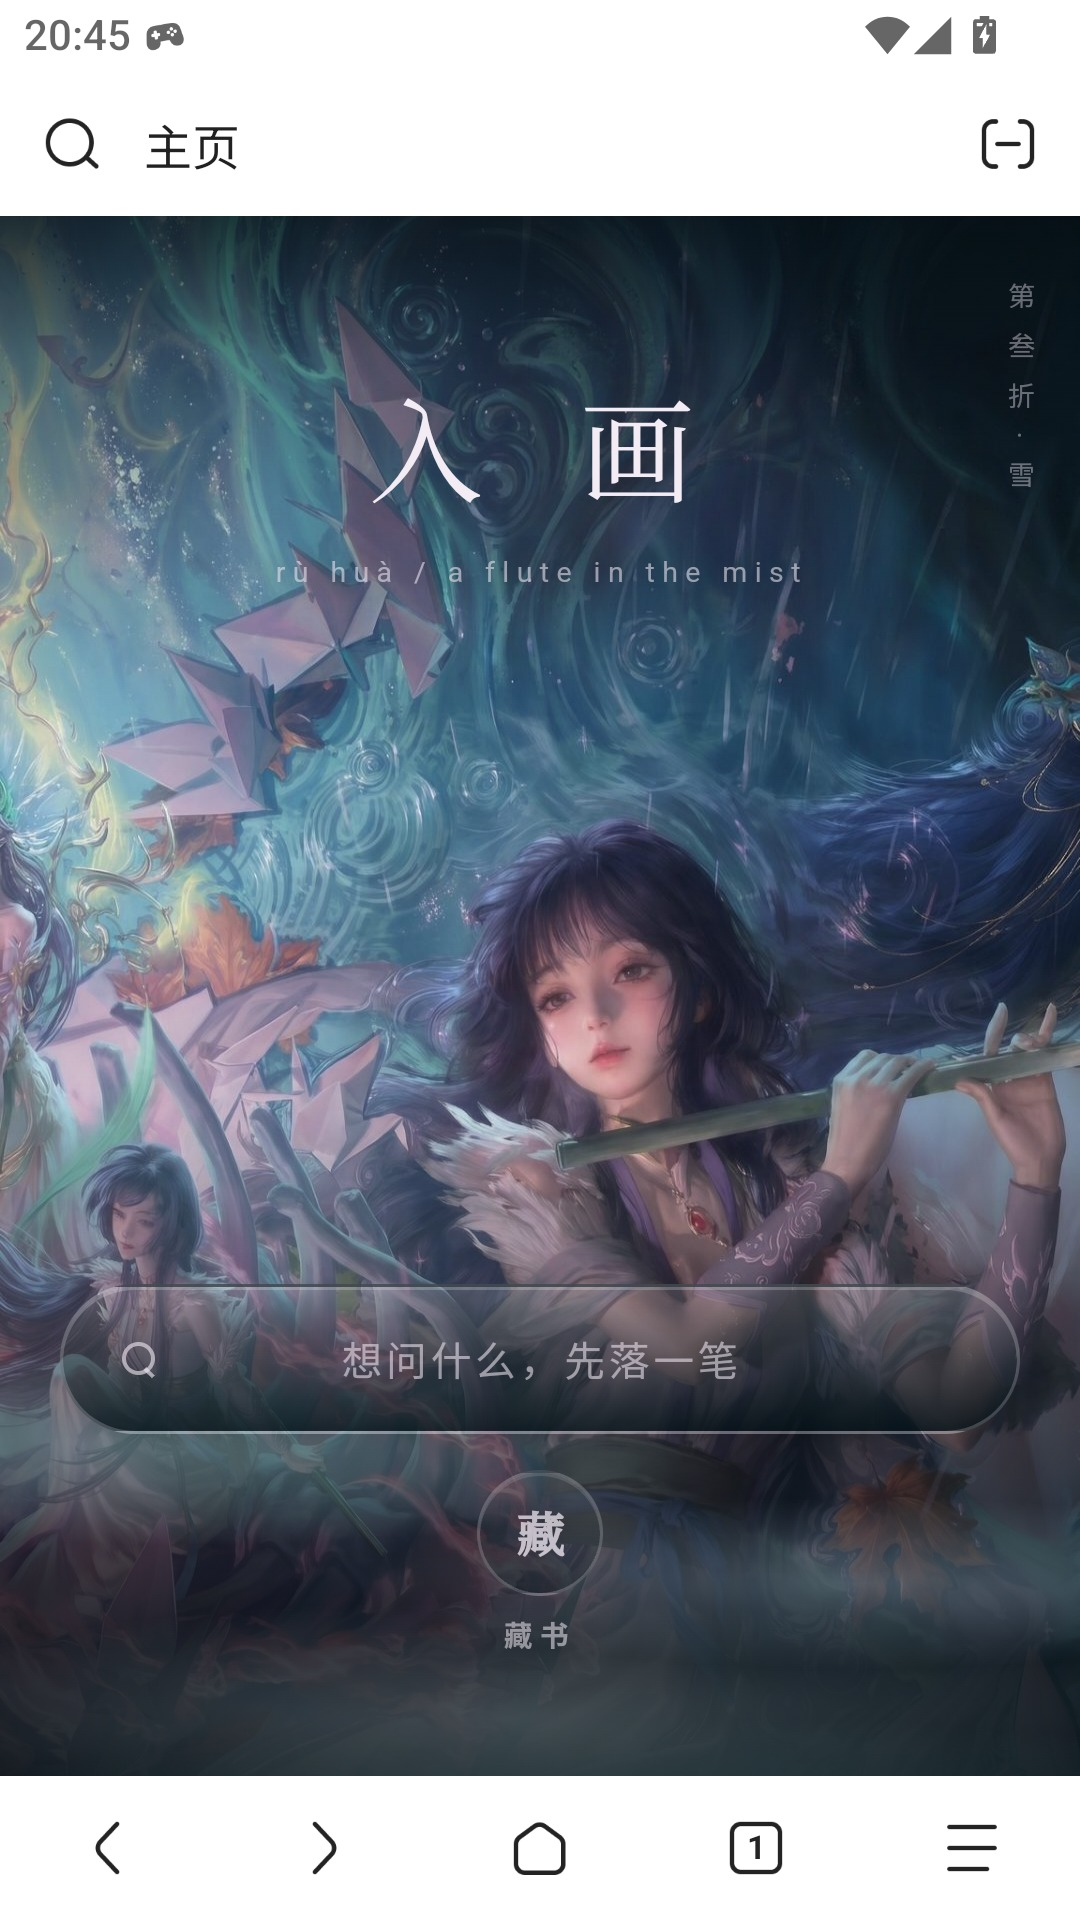
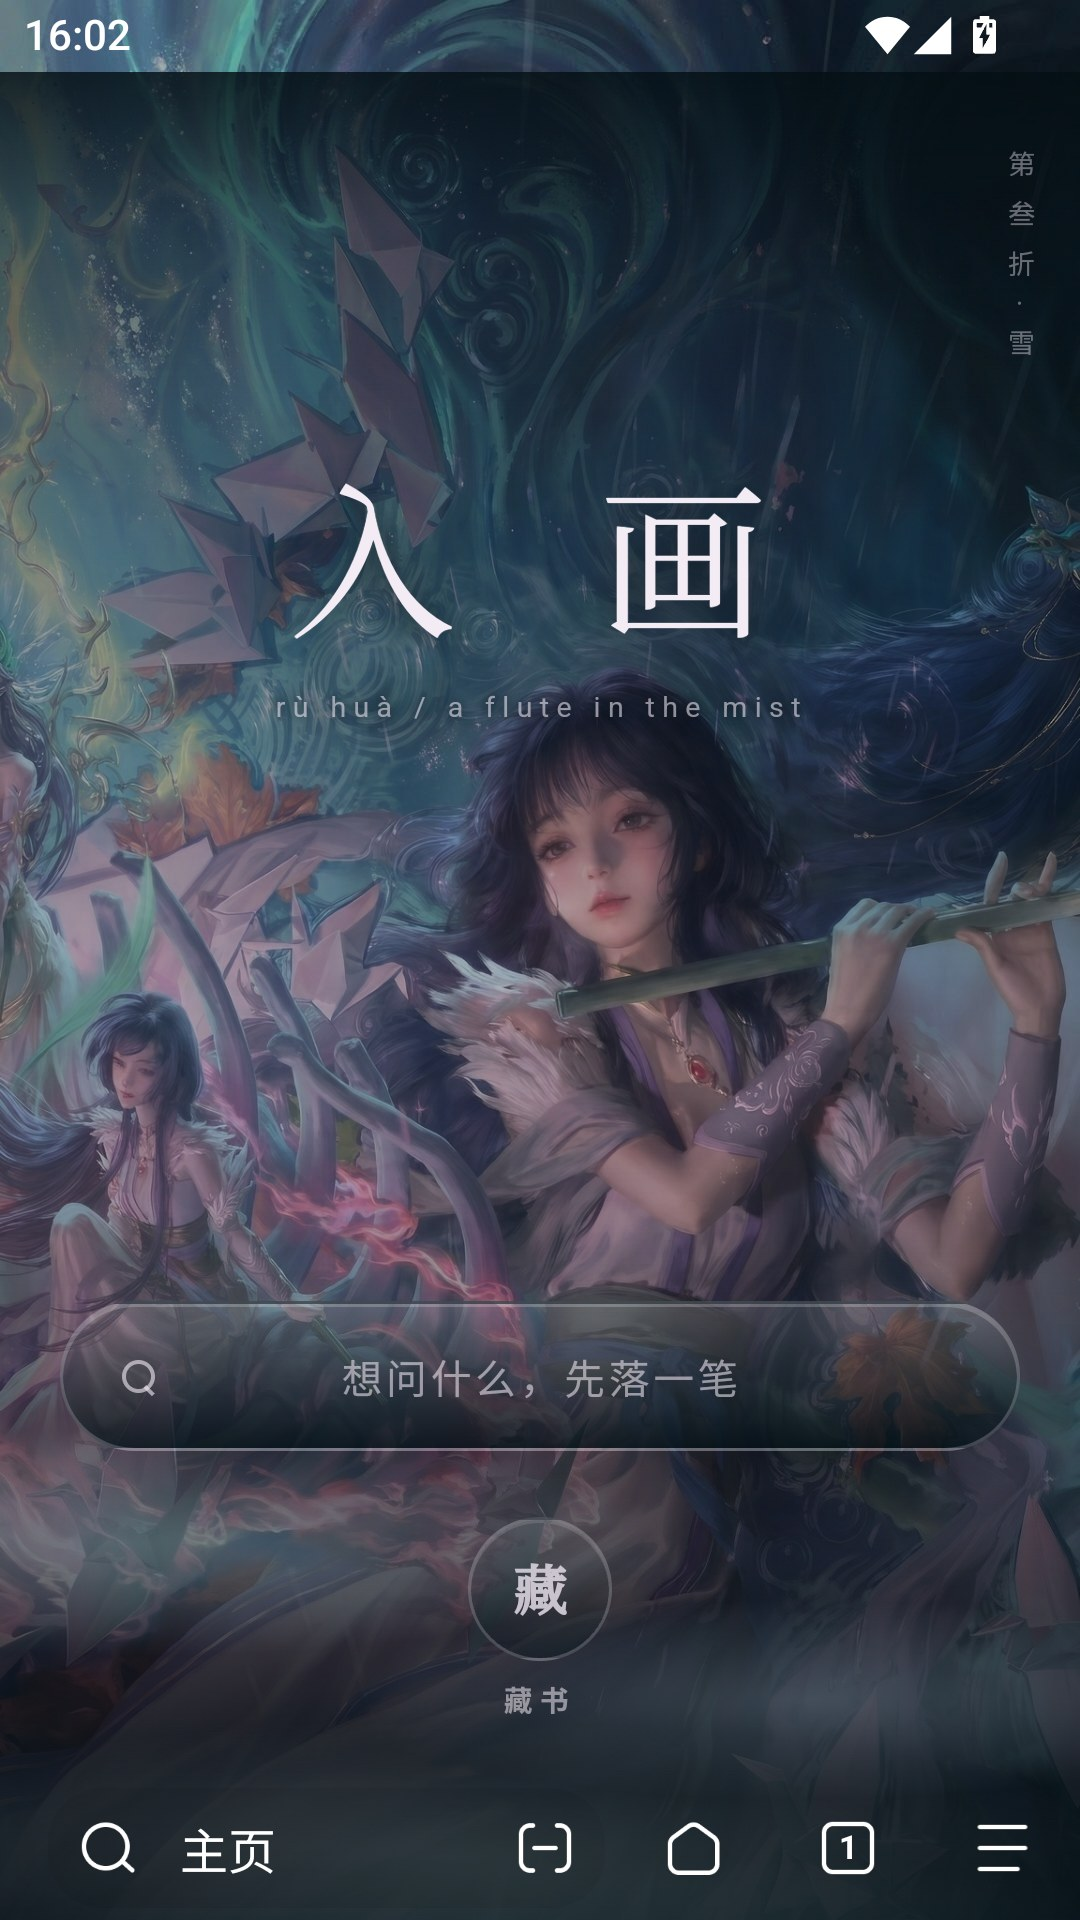
fix(home-ui): 主页壁纸改由 Via「定制 → 背景」提供，CSS 不再自己铺图
之前的落地样式把 `assets/huanjing-bg.jpg` 写进 `#gesture-indicator` 的 background，
等于在页面里又铺了一张不透明底图：用户在「设置 → 定制 → 背景」里换图 / 换预设色 /
拖不透明度全部无效，真机上只有状态栏那条缝能看见壁纸。

- `html / body / #gesture-indicator` 全部改 `background:transparent`，壁纸交给
  Via 原生层绘制；换壁纸即时生效，不需重启（真机验证）。
- 可读性改用一层 `--hj-veil` 压暗（`--hj-veil-ink` 定色、`--hj-veil` 定强度）：
  中间 .26、上下 .8+，浅色壁纸或「不透明度」拉高时白字仍压得住；调到 0 就是纯壁纸。
- 顺带把标题/副题的文字阴影加厚，避免亮底上发糊。
- 文档写清壁纸入口、`cover` 裁切、三个背景选项的实际含义，以及
  「命令行部署必须同时写 homepage.css 与 csstheme，否则进定制页会被回写」。
- 真机截图按新观感重拍（静态 / 按住搜索条 / 按住藏书）。

diff --git a/via-home-ui/home-huanjing.css b/via-home-ui/home-huanjing.css
@@ -1,13 +1,17 @@
 /* ============================================================
    幻境 · 满幅入画 —— Via 手机主页
-   用法：整段粘进 Via「设置 → 定制 → 高级 → 自定义 CSS」，
-        背景图放 files/assets/huanjing-bg.jpg（相对路径取）。
+   用法：整段粘进 Via「设置 → 定制 → 高级 → 自定义 CSS」。
+   壁纸不写在这份 CSS 里：走「设置 → 定制 → 背景」（图片 / 预设色 / 不透明度），
+   本样式把页面留空透出壁纸，只加一层随内容分布的可读性压暗。
    纯 CSS，无脚本，不改 DOM；说明见 via-home-ui/VIA_HOME_UI_SCHEMES_FROM_ART.md
    ============================================================ */
 
 /* ---------- 0. 令牌 ---------- */
 :root{
-  --hj-bg:#040F14;
+  /* 压暗层的墨色与强度：壁纸再亮，字也压得住；调低强度就更多壁纸 */
+  --hj-veil-ink:4,15,20;
+  --hj-veil:1;
+
   --hj-ink:#F4ECF4;
   --hj-rouge:#D9557F;
 
@@ -25,36 +29,45 @@
   --hj-sans:"Noto Sans SC","PingFang SC","Microsoft YaHei",system-ui,sans-serif;
 }
 
-/* ---------- 1. 画布 ---------- */
+/* ---------- 1. 画布 ----------
+   壁纸的唯一来源是 Via「设置 → 定制 → 背景」：它画在 WebView 之下（原生层），
+   所以这里必须保持透明，换图 / 换预设色 / 拖动不透明度才会立刻反映到主页。
+   千万别在这层再写 url(...)——那会把用户选的壁纸整块盖掉。 */
 html{
-  background:var(--hj-bg);
+  background:transparent;
   -webkit-text-size-adjust:100%;
 }
 body{
   width:100%;
   max-width:none;
   margin:0;
-  background:var(--hj-bg);
+  background:transparent;
   overflow:hidden;              /* 主页不滚动，避免橡皮筋把画心带歪 */
 }
 #gesture-indicator{
-  background:var(--hj-bg) url("assets/huanjing-bg.jpg") 50% 18% / cover no-repeat;
+  background:transparent;
 }
-/* 顶部护状态栏、底部压导航条，中间全透明把人和笛子让出来 */
+/* 唯一的例外是「字要看得清」：一层随内容分布的可读性压暗（可调 --hj-veil）。
+   整页留一层底色（中间 .26、两端 .8+），而不是只在文字处打补丁——
+   这样壁纸换成浅色、或用户把「不透明度」拉高变白，白字也不会糊；
+   上下两端再压厚一点，把标题、搜索条、圆印稳稳托住。 */
 #gesture-indicator::before{
   content:"";
   position:absolute;
   inset:0;
   pointer-events:none;
   background:linear-gradient(180deg,
-    rgba(4,15,20,.74) 0%,
-    rgba(4,15,20,.30) 9%,
-    rgba(4,15,20,.04) 24%,
-    rgba(4,15,20,0)   40%,
-    rgba(4,15,20,.05) 56%,
-    rgba(4,15,20,.42) 76%,
-    rgba(4,15,20,.86) 92%,
-    rgba(4,15,20,.94) 100%);
+    rgba(var(--hj-veil-ink),.82) 0%,
+    rgba(var(--hj-veil-ink),.52) 8%,
+    rgba(var(--hj-veil-ink),.42) 18%,
+    rgba(var(--hj-veil-ink),.40) 30%,
+    rgba(var(--hj-veil-ink),.30) 42%,
+    rgba(var(--hj-veil-ink),.26) 55%,
+    rgba(var(--hj-veil-ink),.40) 68%,
+    rgba(var(--hj-veil-ink),.62) 80%,
+    rgba(var(--hj-veil-ink),.88) 92%,
+    rgba(var(--hj-veil-ink),.94) 100%);
+  opacity:var(--hj-veil);
 }
 
 /* 水面流光：两团水下波光极慢地漂，给静止的插画一点「水在动」的呼吸。
@@ -141,7 +154,9 @@ body{
   text-indent:.15em;            /* 只补半个字距，末字的光学重心才落在中线上 */
   color:var(--hj-ink);
   white-space:nowrap;
-  text-shadow:0 0 42px rgba(217,85,127,.30),0 2px 26px rgba(4,15,20,.6);
+  text-shadow:0 0 42px rgba(217,85,127,.30),
+              0 2px 10px rgba(4,15,20,.78),
+              0 0 30px rgba(4,15,20,.55);
 }
 .search_part::after{
   content:"rù huà / a flute in the mist";
@@ -153,7 +168,9 @@ body{
   letter-spacing:.26em;
   text-indent:.13em;
   color:var(--hj-text-2);
-  text-shadow:0 1px 12px rgba(3,14,19,.85),0 0 22px rgba(3,14,19,.6);
+  text-shadow:0 1px 12px rgba(3,14,19,.85),
+              0 0 22px rgba(3,14,19,.6),
+              0 0 4px rgba(3,14,19,.9);
   white-space:nowrap;
 }
 
